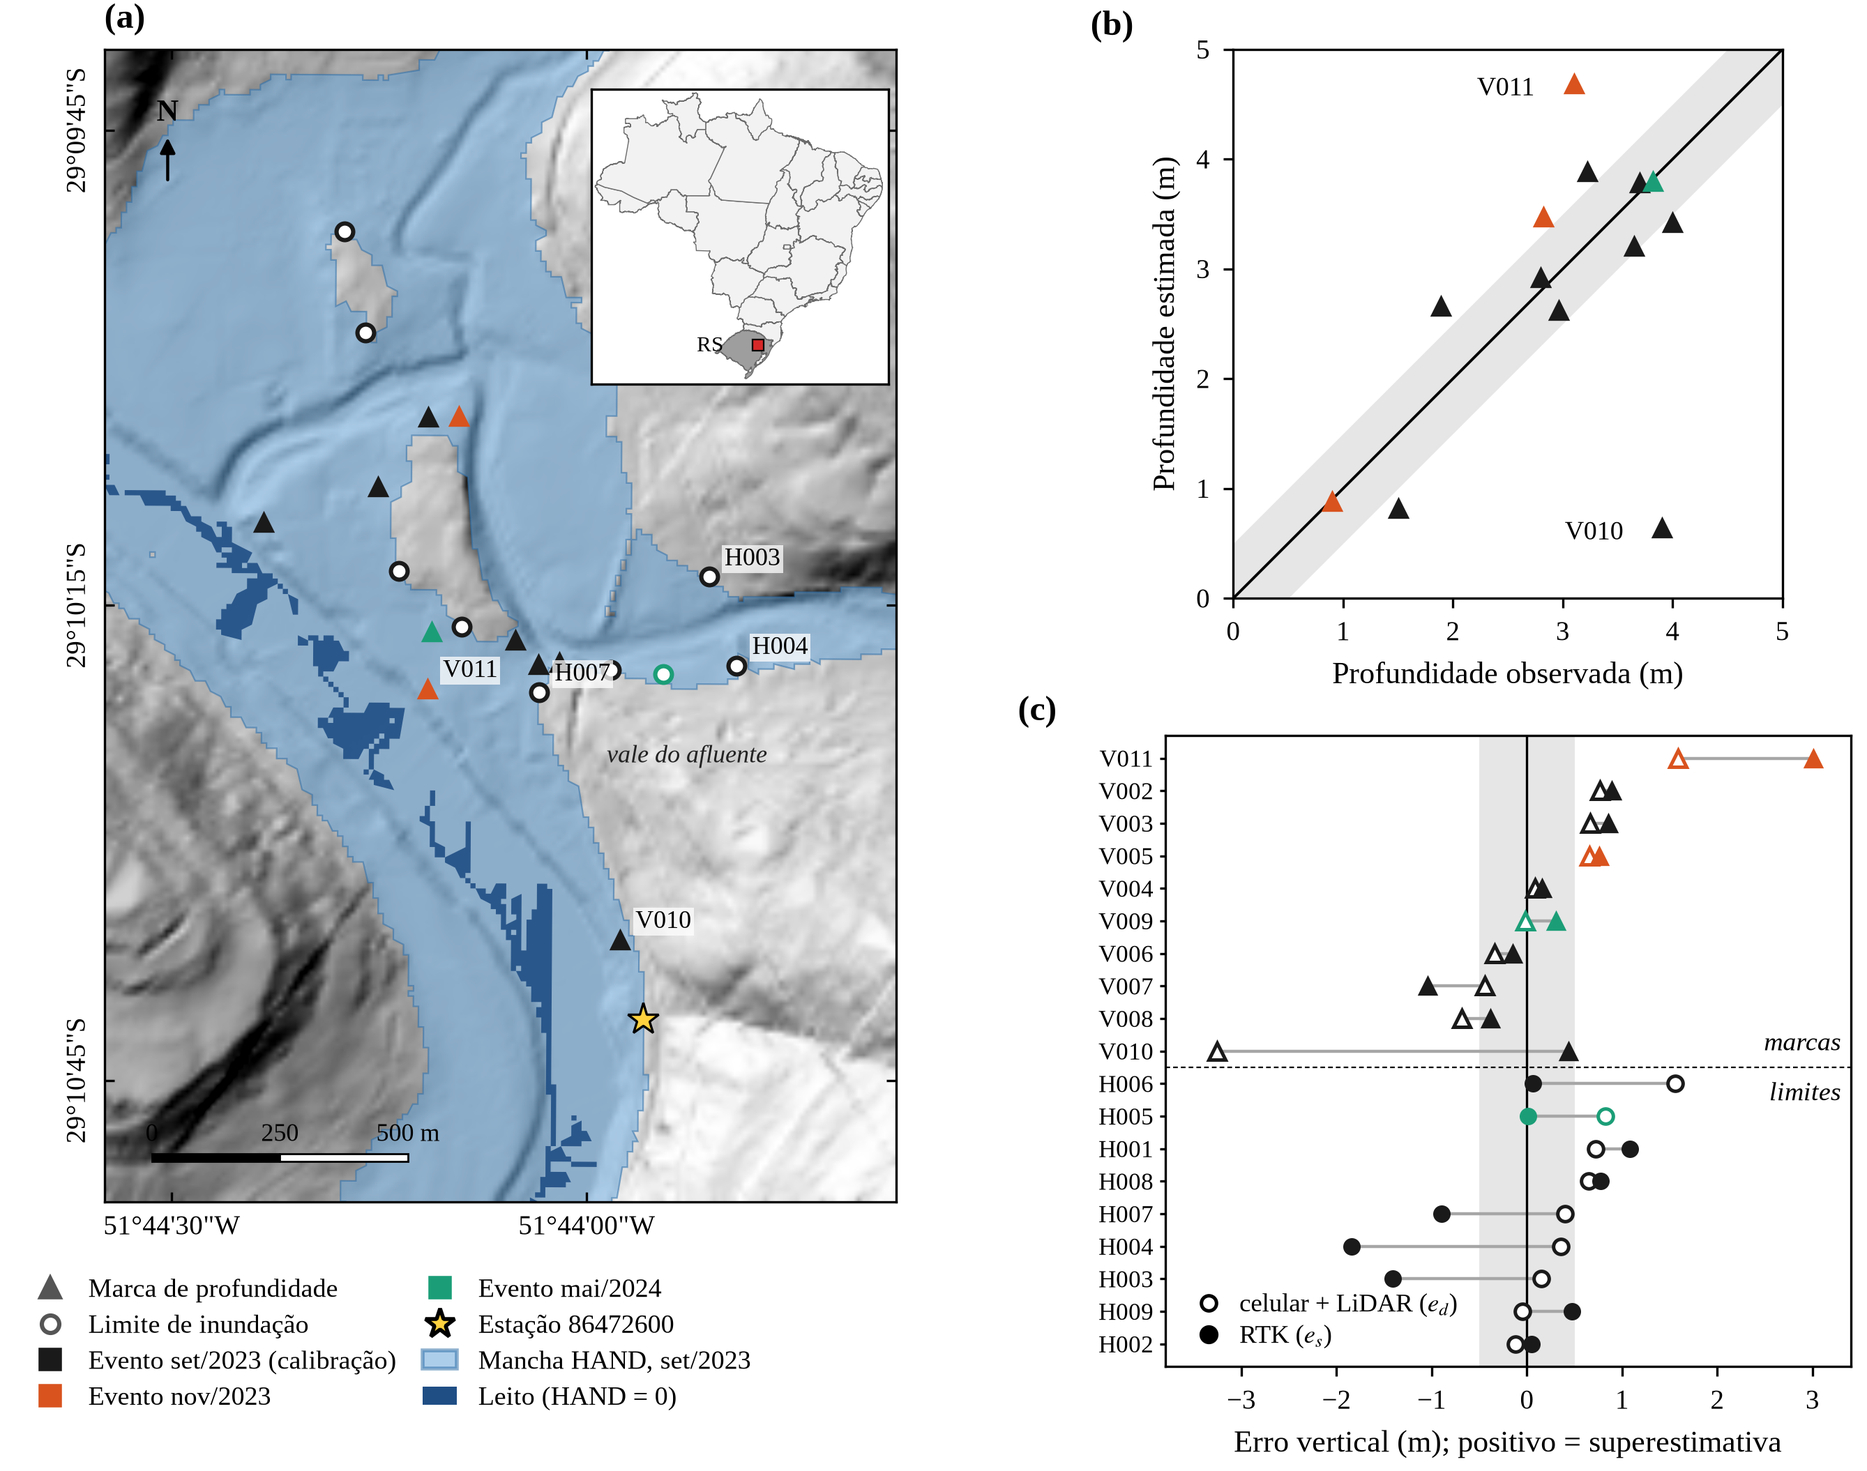
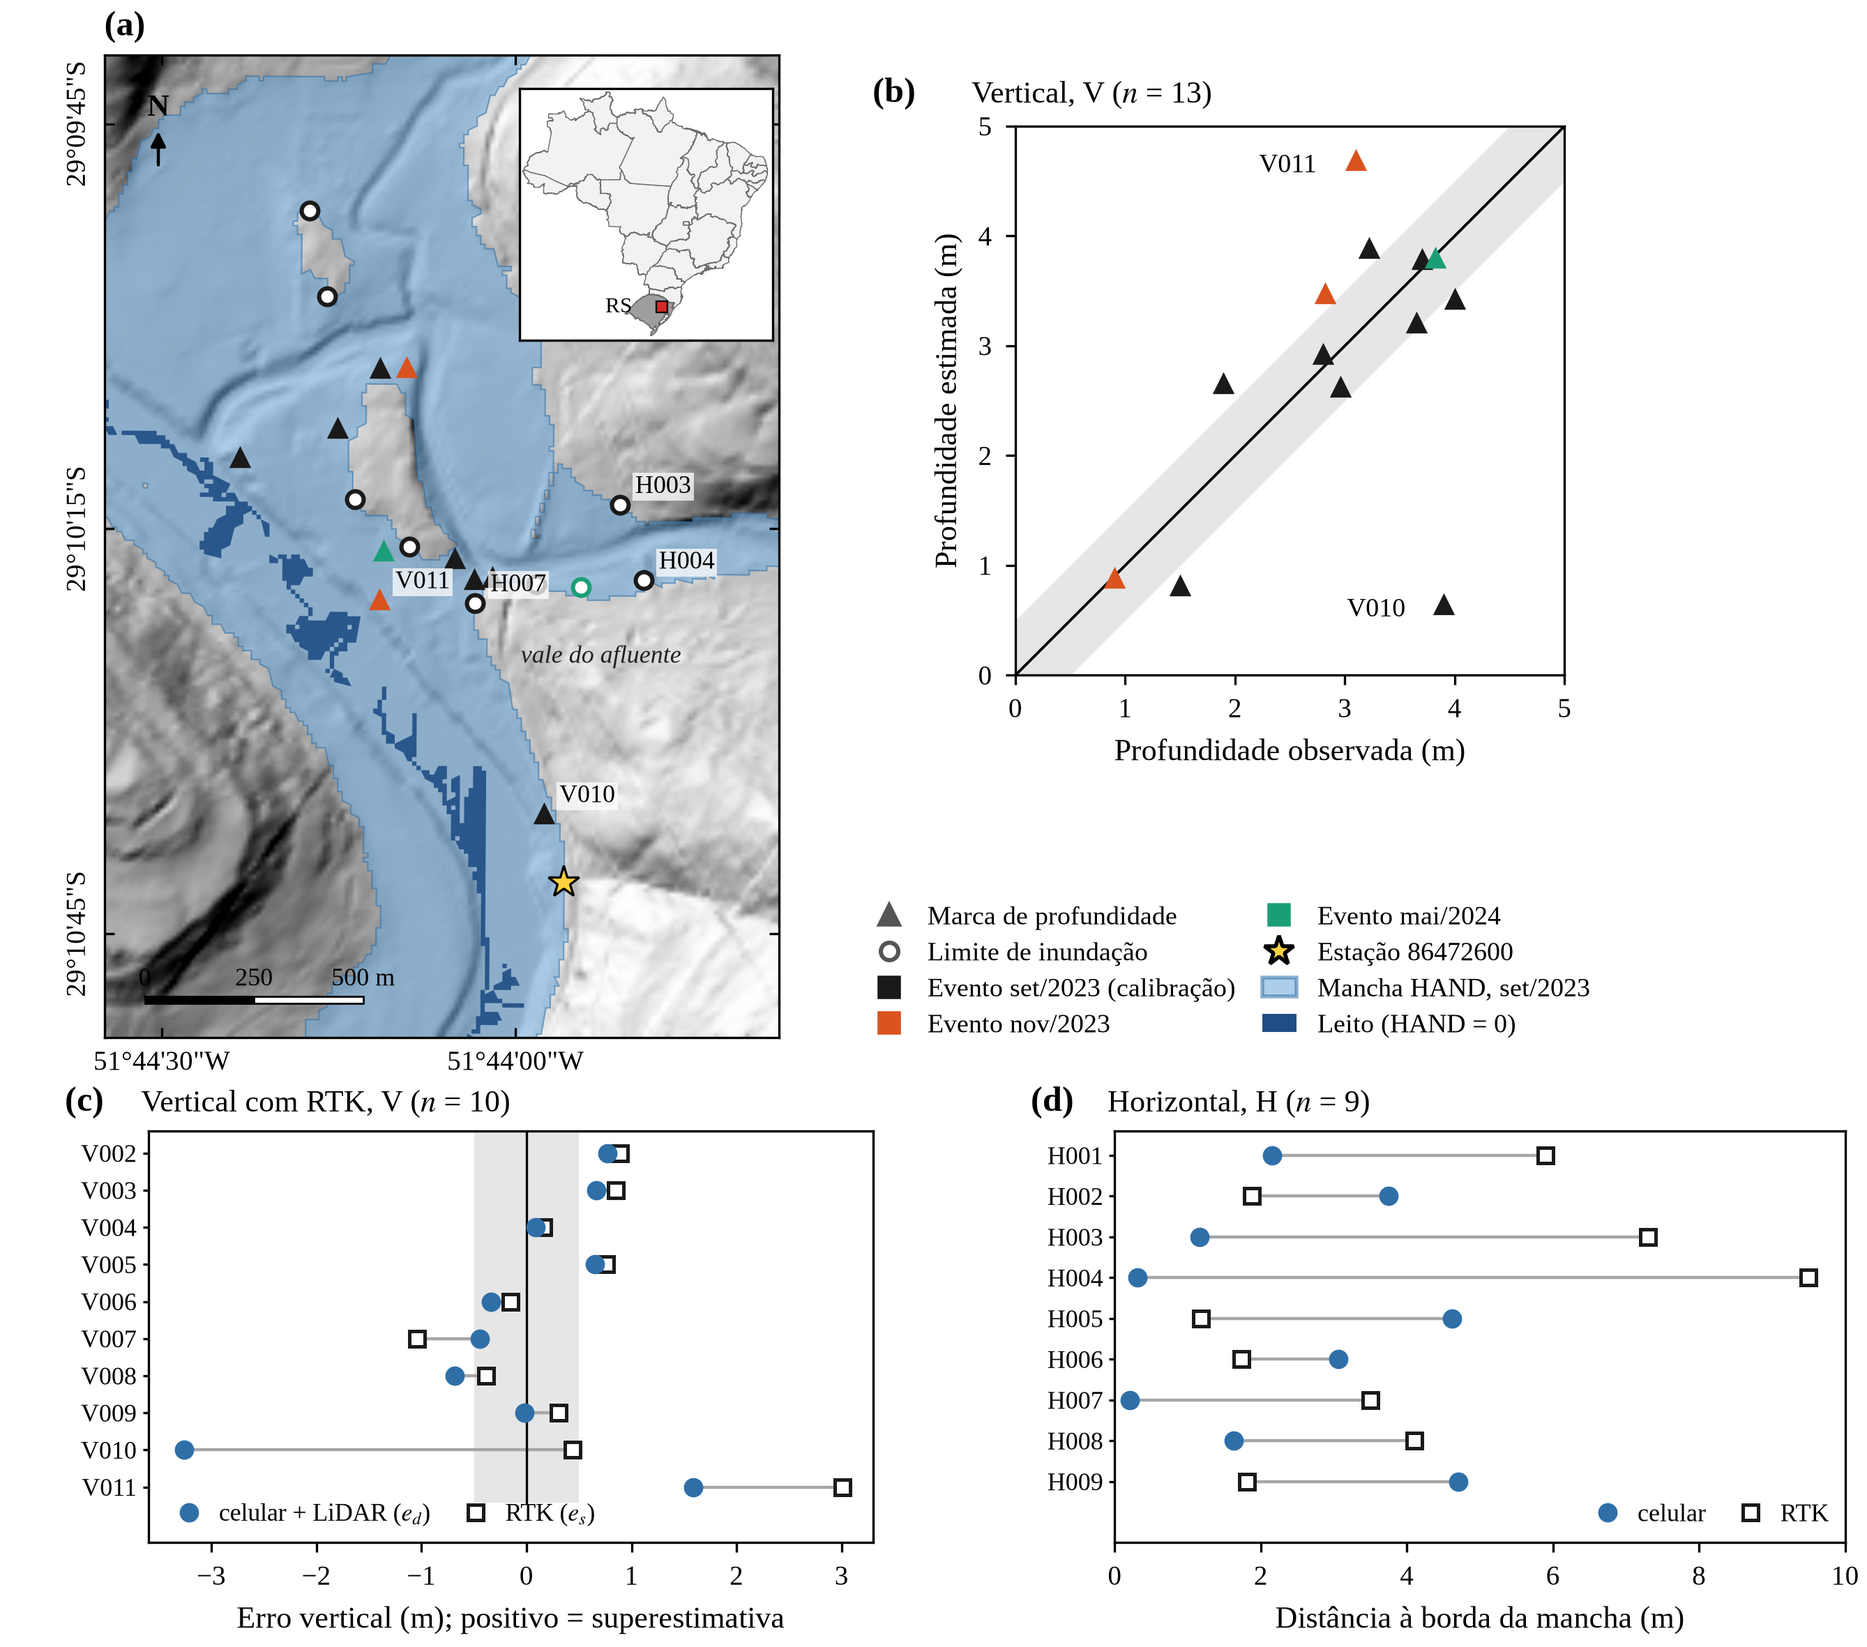
Figura 1 com mapa, avaliação vertical (V) e horizontal (H); estatísticas V/H
Refaz a figura composta para seguir a versão do manuscrito que separa a
avaliação vertical nas marcas V da horizontal nos limites H: (a) mapa,
(b) profundidade observada × estimada nas 13 observações V, (c) e_d × e_s
nas 10 marcas V com RTK e (d) distância dos 9 limites H à borda, nas
posições do celular e RTK.

Adiciona estatisticas_v_h.py, que reproduz a partir do CSV os números
dessa versão (Tabela 1, classes de perigo, diagnóstico da referência de
drenagem com n = 7 e distâncias à borda), e a Figura 2 da versão no
Google Docs (diagnóstico V de set/2023 com RTK).

Claude-Session: https://claude.ai/code/session_016cd6a7VXHqEXihC1peai7E

diff --git a/pesquisas/validacao-campo-hand-santa-tereza/figuras_manuscrito.py b/pesquisas/validacao-campo-hand-santa-tereza/figuras_manuscrito.py
@@ -7,8 +7,9 @@ set/2023 e posições RTK dos pontos de campo, por tipo e por evento.
 Figura 2: (a) profundidade observada × estimada; (b) erro por ponto com o terreno
 LiDAR na posição do celular (e_d) e com o terreno RTK (e_s), marcas e limites
 separados.
-Figura 1 da versão atual (fig_manuscrito_1_mapa_erros.png): as duas anteriores
-juntas, com o mapa em (a) e os painéis de erro em (b) e (c), cores por evento.
+Figura 1 da versão atual (fig_manuscrito_1_mapa_erros.png): mapa (a); avaliação
+vertical nas marcas V (b); e_d × e_s nas marcas V com RTK (c); distância horizontal
+dos limites H à borda, celular × RTK (d).
 
 Uso:
   python pesquisas/validacao-campo-hand-santa-tereza/figuras_manuscrito.py \
@@ -257,33 +258,32 @@ def figura_erros():
 
 
 def figura_mapa_erros(xlsx: Path, estados: Path):
-    """Figura composta: (a) mapa, (b) profundidade observada × estimada, (c) erro por ponto.
-
-    As cores dos eventos são as mesmas nos três painéis, e a legenda do mapa vale para todos.
+    """Figura composta: (a) mapa; (b) avaliação vertical nas marcas V; (c) erros verticais com
+    terreno do celular (e_d) e RTK (e_s) nas marcas V com RTK; (d) distância horizontal dos
+    limites H à borda da mancha, nas posições do celular e RTK.
     """
-    larg, alt = 17.0, 13.4
+    larg, alt = 17.0, 15.0
     fig = plt.figure(figsize=(larg * CM, alt * CM))
 
     def caixa(x0, y0, w, h):
         return [x0 / larg, y0 / alt, w / larg, h / alt]
 
-    ax = fig.add_axes(caixa(0.95, 2.45, 7.6, 10.5))
+    ax = fig.add_axes(caixa(0.95, 5.55, 7.0, 8.95))
     ax.set_anchor("NW")
     leg = _desenha_mapa(ax, xlsx, estados)
     leg[2].set_label("Evento set/2023 (calibração)")
     fig.canvas.draw()
     pos = ax.get_position()
-    fig.legend(handles=leg, loc="upper left", bbox_to_anchor=(0.012, pos.y0 - 0.6 / alt),
-               ncol=2, fontsize=6.8, handlelength=1.3, labelspacing=0.45, columnspacing=1.0,
-               borderaxespad=0.0)
     ax.text(0.0, 1.012, "(a)", transform=ax.transAxes, fontsize=9, fontweight="bold", va="bottom")
+    x_mapa = pos.x1 * larg
+    fig.legend(handles=leg, loc="lower left", bbox_to_anchor=((x_mapa + 0.75) / larg, 5.45 / alt), ncol=2,
+               fontsize=6.8, handlelength=1.3, labelspacing=0.45, columnspacing=1.0, borderaxespad=0.0)
 
     d = pd.read_csv(FIG_DIR.parent / "erros_campo_santa_tereza.csv")
-    x_dir = pos.x1 * larg + 1.45  # borda esquerda dos rótulos de (c)
-    larg_c = larg - x_dir - 1.0 - 0.15
+    COR_CEL, COR_RTK = "#2f6fa8", "#1a1a1a"
 
-    # (b) profundidade observada × estimada nas marcas, centrado sobre (c)
-    a = fig.add_axes(caixa(x_dir + 1.0 + larg_c / 2 - 2.5, 7.95, 5.0, 5.0))
+    # (b) profundidade observada × estimada nas 13 observações V
+    a = fig.add_axes(caixa(x_mapa + 2.15, 8.85, 5.0, 5.0))
     marcas = d[d.tipo == "marca"]
     lim = 5.0
     a.fill_between([0, lim], [-0.5, lim - 0.5], [0.5, lim + 0.5], color="#e6e6e6", lw=0)
@@ -301,46 +301,57 @@ def figura_mapa_erros(xlsx: Path, estados: Path):
     a.set_xlabel("Profundidade observada (m)")
     a.set_ylabel("Profundidade estimada (m)")
     a.tick_params(labelsize=7)
-    a.text(-0.26, 1.012, "(b)", transform=a.transAxes, fontsize=9, fontweight="bold", va="bottom")
+    a.text(-0.26, 1.03, "(b)", transform=a.transAxes, fontsize=9, fontweight="bold", va="bottom")
+    a.text(-0.08, 1.03, "Vertical, V ($n$ = 13)", transform=a.transAxes, fontsize=8, va="bottom")
 
-    # (c) erro por ponto: terreno do celular (e_d) e terreno RTK (e_s)
-    b = fig.add_axes(caixa(x_dir + 1.0, 0.95, larg_c, 5.75))
-    v = d[d.rtk_valido == True].copy()  # noqa: E712
-    v["ord_tipo"] = (v.tipo == "limite").astype(int)
-    v = v.sort_values(["ord_tipo", "erro_lamina_m"], ascending=[False, True]).reset_index(drop=True)
-    b.axvspan(-0.5, 0.5, color="#e6e6e6", lw=0, zorder=0)
-    b.axvline(0, color="black", lw=0.6)
-    for i, r in v.iterrows():
-        mk = "^" if r.tipo == "marca" else "o"
-        cor = COR_EVENTO[r.evento]
-        ms = 4.4 if r.tipo == "marca" else 3.9
-        b.plot([r.erro_lamina_m, r.erro_cota_rtk_m], [i, i], color="#a6a6a6", lw=0.8, zorder=1)
-        b.plot(r.erro_lamina_m, i, marker=mk, ms=ms, mfc="white", mec=cor, mew=0.9, zorder=2)
-        b.plot(r.erro_cota_rtk_m, i, marker=mk, ms=ms, mfc=cor, mec=cor, mew=0.6, zorder=3)
-    corte = int((v.tipo == "limite").sum()) - 0.5
-    b.axhline(corte, color="black", lw=0.4, ls=(0, (3, 2)))
-    b.text(3.3, corte - 0.45, "limites", ha="right", va="top", fontsize=6.8, style="italic")
-    b.text(3.3, corte + 0.35, "marcas", ha="right", va="bottom", fontsize=6.8, style="italic")
-    b.set_yticks(np.arange(len(v)))
-    b.set_yticklabels(v.id, fontsize=6.3)
-    b.tick_params(axis="x", labelsize=7)
-    b.tick_params(axis="y", length=1.5, pad=1.5)
-    b.set_xlabel("Erro vertical (m); positivo = superestimativa")
-    b.set_xlim(-3.8, 3.4)
-    b.set_ylim(-0.7, len(v) - 0.3)
-    leg_c = [Line2D([], [], marker="o", ms=3.9, mfc="white", mec="black", mew=0.9, ls="none",
-                    label="celular + LiDAR ($e_d$)"),
-             Line2D([], [], marker="o", ms=3.9, mfc="black", mec="black", ls="none",
-                    label="RTK ($e_s$)")]
-    b.legend(handles=leg_c, loc="lower left", fontsize=6.6, handletextpad=0.2, borderaxespad=0.3,
-             labelspacing=0.3)
-    b.text(-0.215, 1.012, "(c)", transform=b.transAxes, fontsize=9, fontweight="bold", va="bottom")
+    def halteres(eixo, ids, x_cel, x_rtk):
+        y = np.arange(len(ids))[::-1] + 1.4
+        for yi, xc, xr in zip(y, x_cel, x_rtk):
+            eixo.plot([xc, xr], [yi, yi], color="#a6a6a6", lw=0.8, zorder=1)
+            eixo.plot(xc, yi, marker="o", ms=4.0, mfc=COR_CEL, mec=COR_CEL, ls="none", zorder=3)
+            eixo.plot(xr, yi, marker="s", ms=3.9, mfc="white", mec=COR_RTK, mew=0.9, ls="none", zorder=2)
+        eixo.set_yticks(y)
+        eixo.set_yticklabels(ids, fontsize=6.5)
+        eixo.set_ylim(-0.1, y.max() + 0.6)
+        eixo.tick_params(axis="x", labelsize=7)
+        eixo.tick_params(axis="y", length=1.5, pad=1.5)
+
+    # (c) erros verticais nas marcas V com RTK: e_d (terreno do celular) e e_s (terreno RTK)
+    c = fig.add_axes(caixa(1.35, 0.95, 6.6, 3.75))
+    vr = d[(d.tipo == "marca") & (d.rtk_valido == True)].sort_values("id")  # noqa: E712
+    halteres(c, vr.id.tolist(), vr.erro_lamina_m, vr.erro_cota_rtk_m)
+    # faixa de ±0,5 m e linha do zero só nas linhas de dados, deixando a legenda limpa embaixo
+    y_lin = (0.97, c.get_ylim()[1])
+    c.fill_betweenx(y_lin, -0.5, 0.5, color="#e6e6e6", lw=0, zorder=0)
+    c.plot([0, 0], y_lin, color="black", lw=0.6, zorder=1)
+    c.set_xlim(-3.6, 3.3)
+    c.set_xlabel("Erro vertical (m); positivo = superestimativa")
+    c.legend(handles=[Line2D([], [], marker="o", ms=4, mfc=COR_CEL, mec=COR_CEL, ls="none",
+                             label="celular + LiDAR ($e_d$)"),
+                      Line2D([], [], marker="s", ms=3.9, mfc="white", mec=COR_RTK, mew=0.9, ls="none",
+                             label="RTK ($e_s$)")],
+             loc="lower left", fontsize=6.4, handletextpad=0.2, borderaxespad=0.25, labelspacing=0.25,
+             ncol=2, columnspacing=0.8)
+    c.text(-0.115, 1.03, "(c)", transform=c.transAxes, fontsize=9, fontweight="bold", va="bottom")
+    c.text(-0.01, 1.03, "Vertical com RTK, V ($n$ = 10)", transform=c.transAxes, fontsize=8, va="bottom")
+
+    # (d) distância horizontal dos limites H à borda da mancha
+    h = fig.add_axes(caixa(10.15, 0.95, 6.65, 3.75))
+    hh = d[d.tipo == "limite"].sort_values("id")
+    halteres(h, hh.id.tolist(), hh.erro_h_cel_m, hh.erro_h_rtk_m)
+    h.set_xlim(0, 10)
+    h.set_xlabel("Distância à borda da mancha (m)")
+    h.legend(handles=[Line2D([], [], marker="o", ms=4, mfc=COR_CEL, mec=COR_CEL, ls="none", label="celular"),
+                      Line2D([], [], marker="s", ms=3.9, mfc="white", mec=COR_RTK, mew=0.9, ls="none",
+                             label="RTK")],
+             loc="lower right", fontsize=6.4, handletextpad=0.2, borderaxespad=0.25, ncol=2, columnspacing=0.8)
+    h.text(-0.115, 1.03, "(d)", transform=h.transAxes, fontsize=9, fontweight="bold", va="bottom")
+    h.text(-0.01, 1.03, "Horizontal, H ($n$ = 9)", transform=h.transAxes, fontsize=8, va="bottom")
 
     out = FIG_DIR / "fig_manuscrito_1_mapa_erros.png"
     fig.savefig(out)
     plt.close(fig)
     return out
-
 
 if __name__ == "__main__":
     if len(sys.argv) < 3:

diff --git a/pesquisas/validacao-campo-hand-santa-tereza/estatisticas_v_h.py b/pesquisas/validacao-campo-hand-santa-tereza/estatisticas_v_h.py
@@ -1,0 +1,118 @@
+#!/usr/bin/env python3
+# -*- coding: utf-8 -*-
+"""Estatísticas do manuscrito com avaliação vertical só nas marcas (V) e horizontal só nos limites (H).
+
+Lê erros_campo_santa_tereza.csv (gerado por analise_erros_campo.py, sem coordenadas) e grava
+estatisticas_v_h.json. Reproduz os números da versão do manuscrito que separa V e H:
+Tabela 1, classes de perigo, diagnóstico da referência de drenagem (V de set/2023 com RTK)
+e distâncias dos limites à borda da mancha nas posições do celular e RTK.
+
+Uso:
+  python pesquisas/validacao-campo-hand-santa-tereza/estatisticas_v_h.py
+"""
+from __future__ import annotations
+
+import json
+import sys
+from pathlib import Path
+
+import numpy as np
+import pandas as pd
+from scipy import stats
+
+AQUI = Path(__file__).resolve().parent
+sys.path.insert(0, str(AQUI))
+from analise_erros_campo import LIMIAR_HAND, PICO_REGUA_M, ZERO_REGUA_M  # noqa: E402
+from analises_adicionais import classe, concordancia, kappa_ponderado, loo  # noqa: E402
+
+PICO_SGB = {"2023-09": 24.04, "2023-11": 21.61, "2024-05": 22.42}  # cotas niveladas pelo SGB [1]
+
+
+def r3(x):
+    return None if x is None or not np.isfinite(x) else round(float(x), 3)
+
+
+def resumo(e):
+    e = np.asarray(e, float)
+    return {"n": int(e.size), "vies_m": r3(e.mean()), "mae_m": r3(np.abs(e).mean()),
+            "mediana_abs_m": r3(np.median(np.abs(e)))}
+
+
+def ic_t(e):
+    e = np.asarray(e, float)
+    t = stats.t.ppf(0.975, e.size - 1) * e.std(ddof=1) / np.sqrt(e.size)
+    return [r3(e.mean() - t), r3(e.mean() + t)]
+
+
+def main():
+    d = pd.read_csv(AQUI / "erros_campo_santa_tereza.csv")
+    v = d[d.tipo == "marca"]
+    h = d[d.tipo == "limite"]
+    outros = v[v.evento != "2023-09"]
+    vr = v[v.rtk_valido == True]  # noqa: E712
+    out = {"fonte": "erros_campo_santa_tereza.csv"}
+
+    # Sensibilidade à fonte do pico (como em estatisticas_manuscrito.py): z0 recalibrado em
+    # set/2023 (17 registros V e H) com as cotas niveladas pelo SGB; nov/2023 sem cota SGB.
+    cal = d[d.calibracao == True]  # noqa: E712
+    z0_sgb = ZERO_REGUA_M + cal.erro_lamina_m.mean() + (PICO_SGB["2023-09"] - PICO_REGUA_M["2023-09"])
+    desloc_sgb = {ev: (PICO_SGB[ev] - z0_sgb) - (PICO_REGUA_M[ev] - ZERO_REGUA_M) for ev in PICO_SGB}
+    out["z0_m"] = ZERO_REGUA_M
+    out["z0_picos_sgb_m"] = r3(z0_sgb)
+
+    out["tabela1"] = {
+        "todos_V_ed": resumo(v.erro_lamina_m),
+        "set2023_V_ed": resumo(v[v.evento == "2023-09"].erro_lamina_m),
+        "outros_eventos_V_ed": {**resumo(outros.erro_lamina_m), "ic95_t_vies_m": ic_t(outros.erro_lamina_m)},
+        "outros_eventos_V_ed_picos_sgb": resumo(outros.erro_lamina_m + outros.evento.map(desloc_sgb)),
+        "V_com_rtk_ed": resumo(vr.erro_lamina_m),
+        "V_com_rtk_es": resumo(vr.erro_cota_rtk_m),
+        "V_com_rtk_dz": resumo(vr.dz_lidar_rtk_m),
+        "sem_V010_ed": resumo(v[v.id != "V010"].erro_lamina_m),
+    }
+    out["outros_eventos_sem_V011_vies_m"] = r3(outros[outros.id != "V011"].erro_lamina_m.mean())
+    out["V_dentro_05m"] = int((v.erro_lamina_m.abs() <= 0.5).sum())
+    out["concordancia_V"] = concordancia(v.lamina_obs_m, v.lamina_hand_m)
+    a, b = classe(v.lamina_obs_m), classe(v.lamina_hand_m)
+    out["classes_V"] = {"acertos": int((a == b).sum()), "n": int(a.size),
+                        "kappa_ponderado_linear": r3(kappa_ponderado(a, b)[0])}
+
+    ed, es = vr.erro_lamina_m.to_numpy(), vr.erro_cota_rtk_m.to_numpy()
+    out["V_com_rtk"] = {
+        "abs_dz_maior_1m": int((vr.dz_lidar_rtk_m.abs() > 1).sum()),
+        "muda_enquadramento_05m": int(((np.abs(ed) <= 0.5) != (np.abs(es) <= 0.5)).sum()),
+        "erro_abs_aumentou_com_rtk": int((np.abs(es) > np.abs(ed)).sum()),
+    }
+
+    # Diagnóstico da premissa do HAND: cota observada × cota do trecho de drenagem de referência
+    s = vr[vr.evento == "2023-09"]
+    wse_obs = (s.z_rtk_m + s.lamina_obs_m).to_numpy()
+    wse_mod = (s.z_lidar_m + s.lamina_hand_m).to_numpy()
+    z_dren = wse_mod - LIMIAR_HAND["2023-09"]
+    lr = stats.linregress(z_dren, wse_obs)
+    n = len(s)
+    t = stats.t.ppf(0.975, n - 2)
+    um = np.ones(n)[:, None]
+    out["diagnostico_drenagem_V_set2023_rtk"] = {
+        "n": n, "ids": s.id.tolist(), "inclinacao": r3(lr.slope),
+        "ic95": [r3(lr.slope - t * lr.stderr), r3(lr.slope + t * lr.stderr)],
+        "p_inclinacao_1": r3(2 * stats.t.sf(abs((lr.slope - 1) / lr.stderr), n - 2)),
+        "loocv_mae_plano_horizontal_m": r3(np.abs(loo(wse_obs, um)).mean()),
+        "loocv_mae_hand_m": r3(np.abs(loo(wse_obs - wse_mod, um)).mean()),
+    }
+
+    out["horizontal_H"] = {
+        pos: {"n": int(h[col].notna().sum()), "min_m": r3(h[col].min()), "max_m": r3(h[col].max()),
+              "media_m": r3(h[col].mean()), "desvio_m": r3(h[col].std(ddof=1)),
+              "mediana_m": r3(h[col].median())}
+        for pos, col in (("celular", "erro_h_cel_m"), ("rtk", "erro_h_rtk_m"))
+    }
+    out["horizontal_H"]["wilcoxon_rtk_vs_celular_p"] = r3(stats.wilcoxon(h.erro_h_rtk_m, h.erro_h_cel_m).pvalue)
+
+    dest = AQUI / "estatisticas_v_h.json"
+    dest.write_text(json.dumps(out, ensure_ascii=False, indent=1))
+    return dest
+
+
+if __name__ == "__main__":
+    print(main())

diff --git a/pesquisas/validacao-campo-hand-santa-tereza/README.md b/pesquisas/validacao-campo-hand-santa-tereza/README.md
@@ -11,9 +11,10 @@ A análise sustenta o trabalho para o SBSR 2027 e o artigo em preparação.
 | `analise_erros_campo.py` | Lê a planilha de campo e recalcula todos os erros com fórmulas únicas. |
 | `erros_campo_santa_tereza.csv` | Uma linha por ponto × evento, sem coordenadas. |
 | `metricas_validacao_campo.json` | Viés, MAE, RMSE e demais métricas por conjunto. |
-| `figuras/` | Figuras 1–3 (300 dpi) e figuras do manuscrito (`fig_manuscrito_*`; a Figura 1 do SBSR 2027 é `fig_manuscrito_1_mapa_erros.png`, mapa e erros juntos). |
+| `figuras/` | Figuras 1–3 (300 dpi) e figuras do manuscrito (`fig_manuscrito_*`). No SBSR 2027, a Figura 1 é `fig_manuscrito_1_mapa_erros.png` (mapa; vertical nas marcas V; e_d × e_s com RTK; distância horizontal dos limites H, celular × RTK) e a Figura 2 é `fig_manuscrito_2_diagnostico_v.png` (V de set/2023 com RTK, n = 7), copiada da versão do manuscrito no Google Docs. |
 | `estatisticas_manuscrito.py` / `.json` | IC 95% (bootstrap e t), z0 por evento, sensibilidade à fonte do pico (telemetria × SGB), Δz celular × RTK, plano horizontal como modelo nulo. |
 | `figuras_manuscrito.py` | Gera as figuras do manuscrito (precisa da planilha e de um GeoJSON de UFs). |
+| `estatisticas_v_h.py` / `.json` | Números da versão que avalia a profundidade só nas marcas (V) e a borda só nos limites (H): Tabela 1, classes de perigo, diagnóstico da referência de drenagem (n = 7) e distâncias à borda, celular × RTK. Lê só o CSV. |
 | `analises_adicionais.py` / `.json` | Concordância (NSE, KGE), classes de perigo com kappa, teste da premissa de linha d'água paralela (cota observada × cota do trecho de drenagem), validação cruzada HAND × plano horizontal, erro horizontal da borda, MDTs nos vértices RTK, orçamento de erros e sensibilidade aos pontos excluídos. Gera `figuras/fig_adicional_cheia_vs_drenagem.png`. |
 
 A planilha original (`sumario_erros_hand.xlsx`) não é versionada porque traz as
